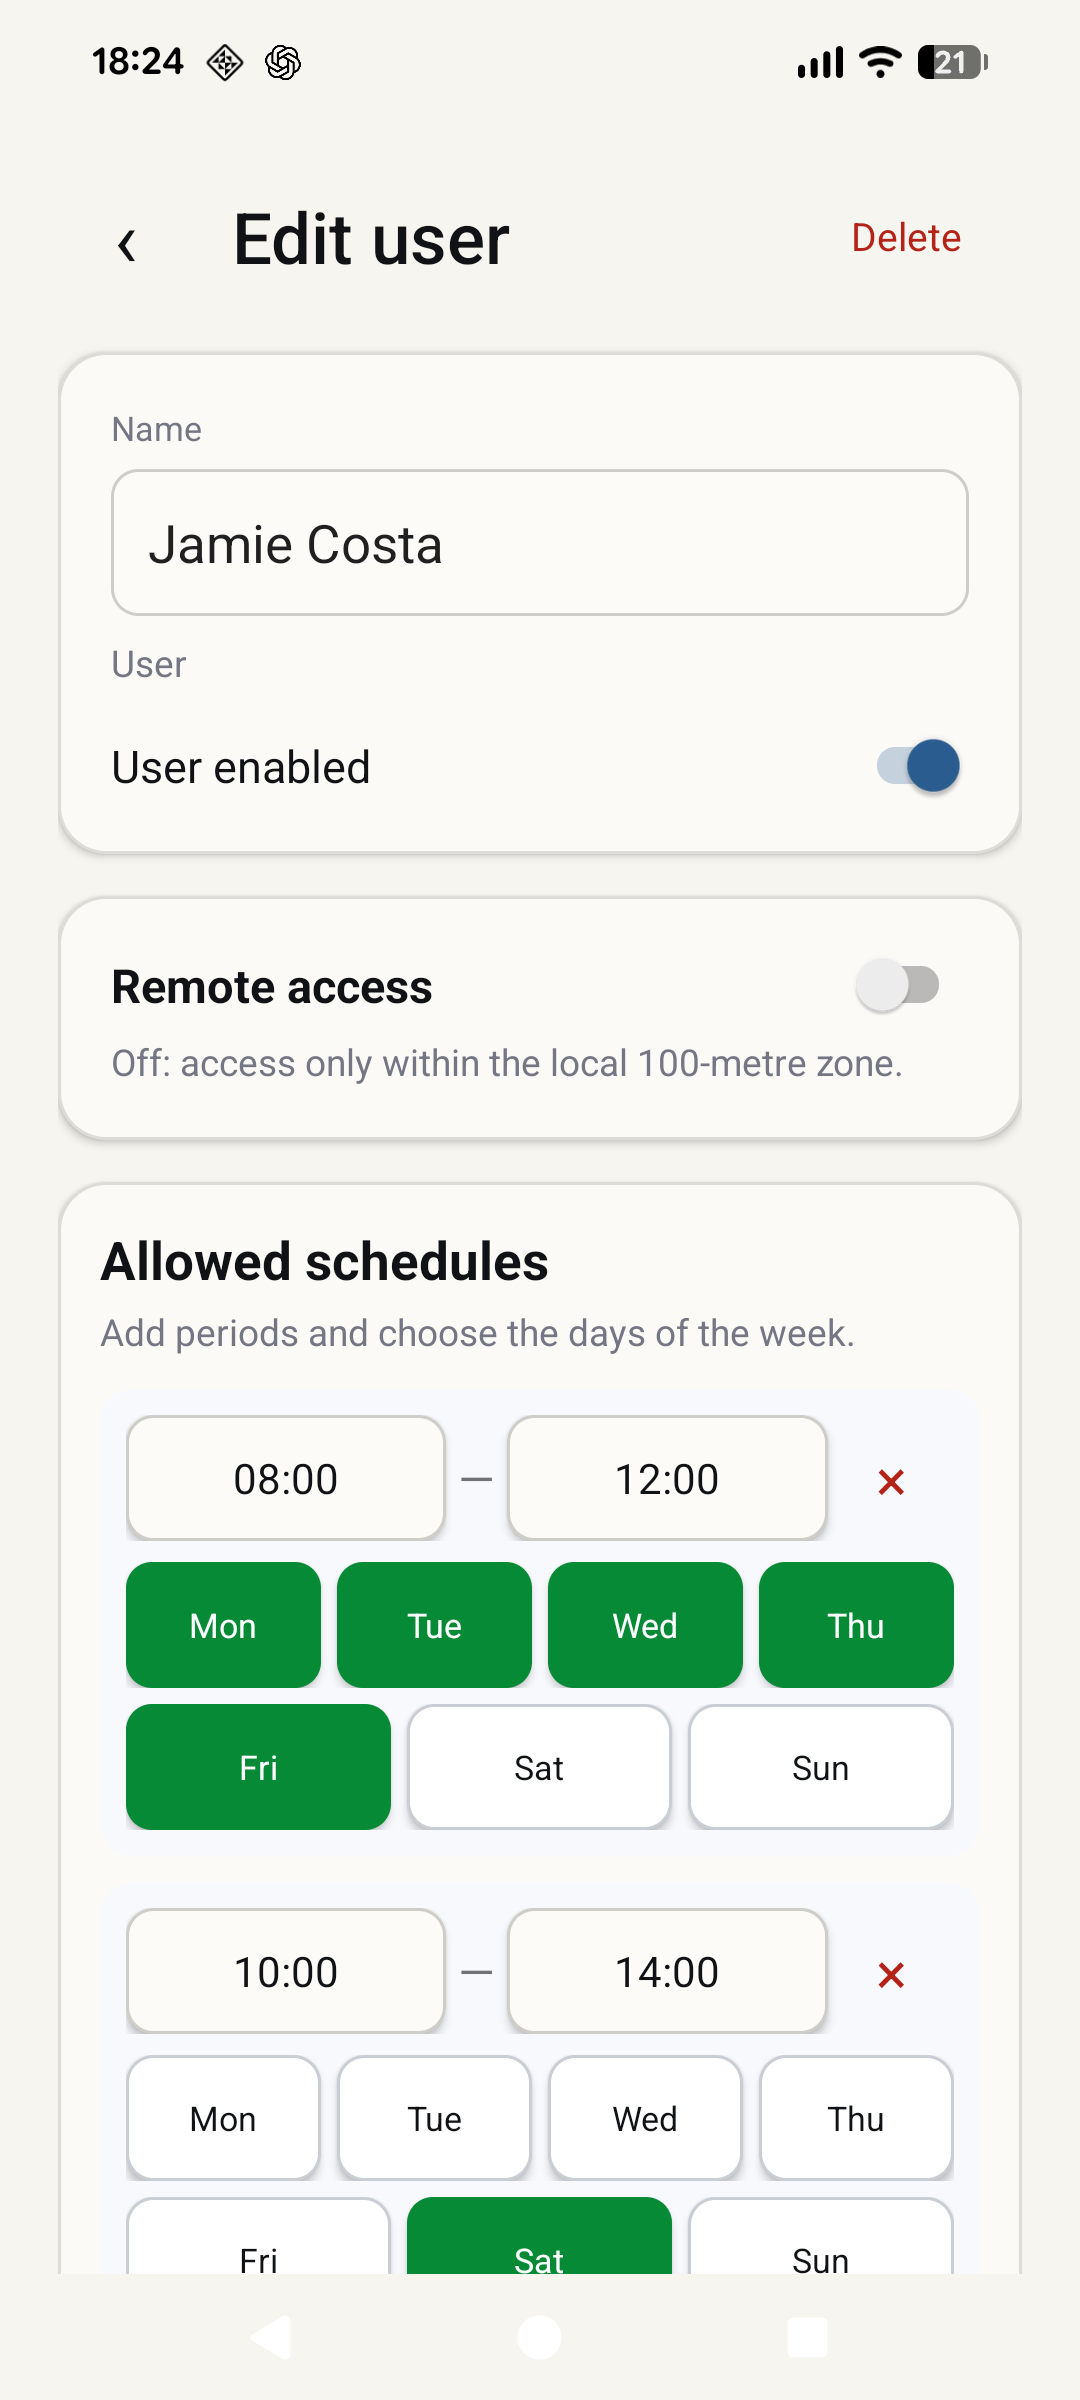
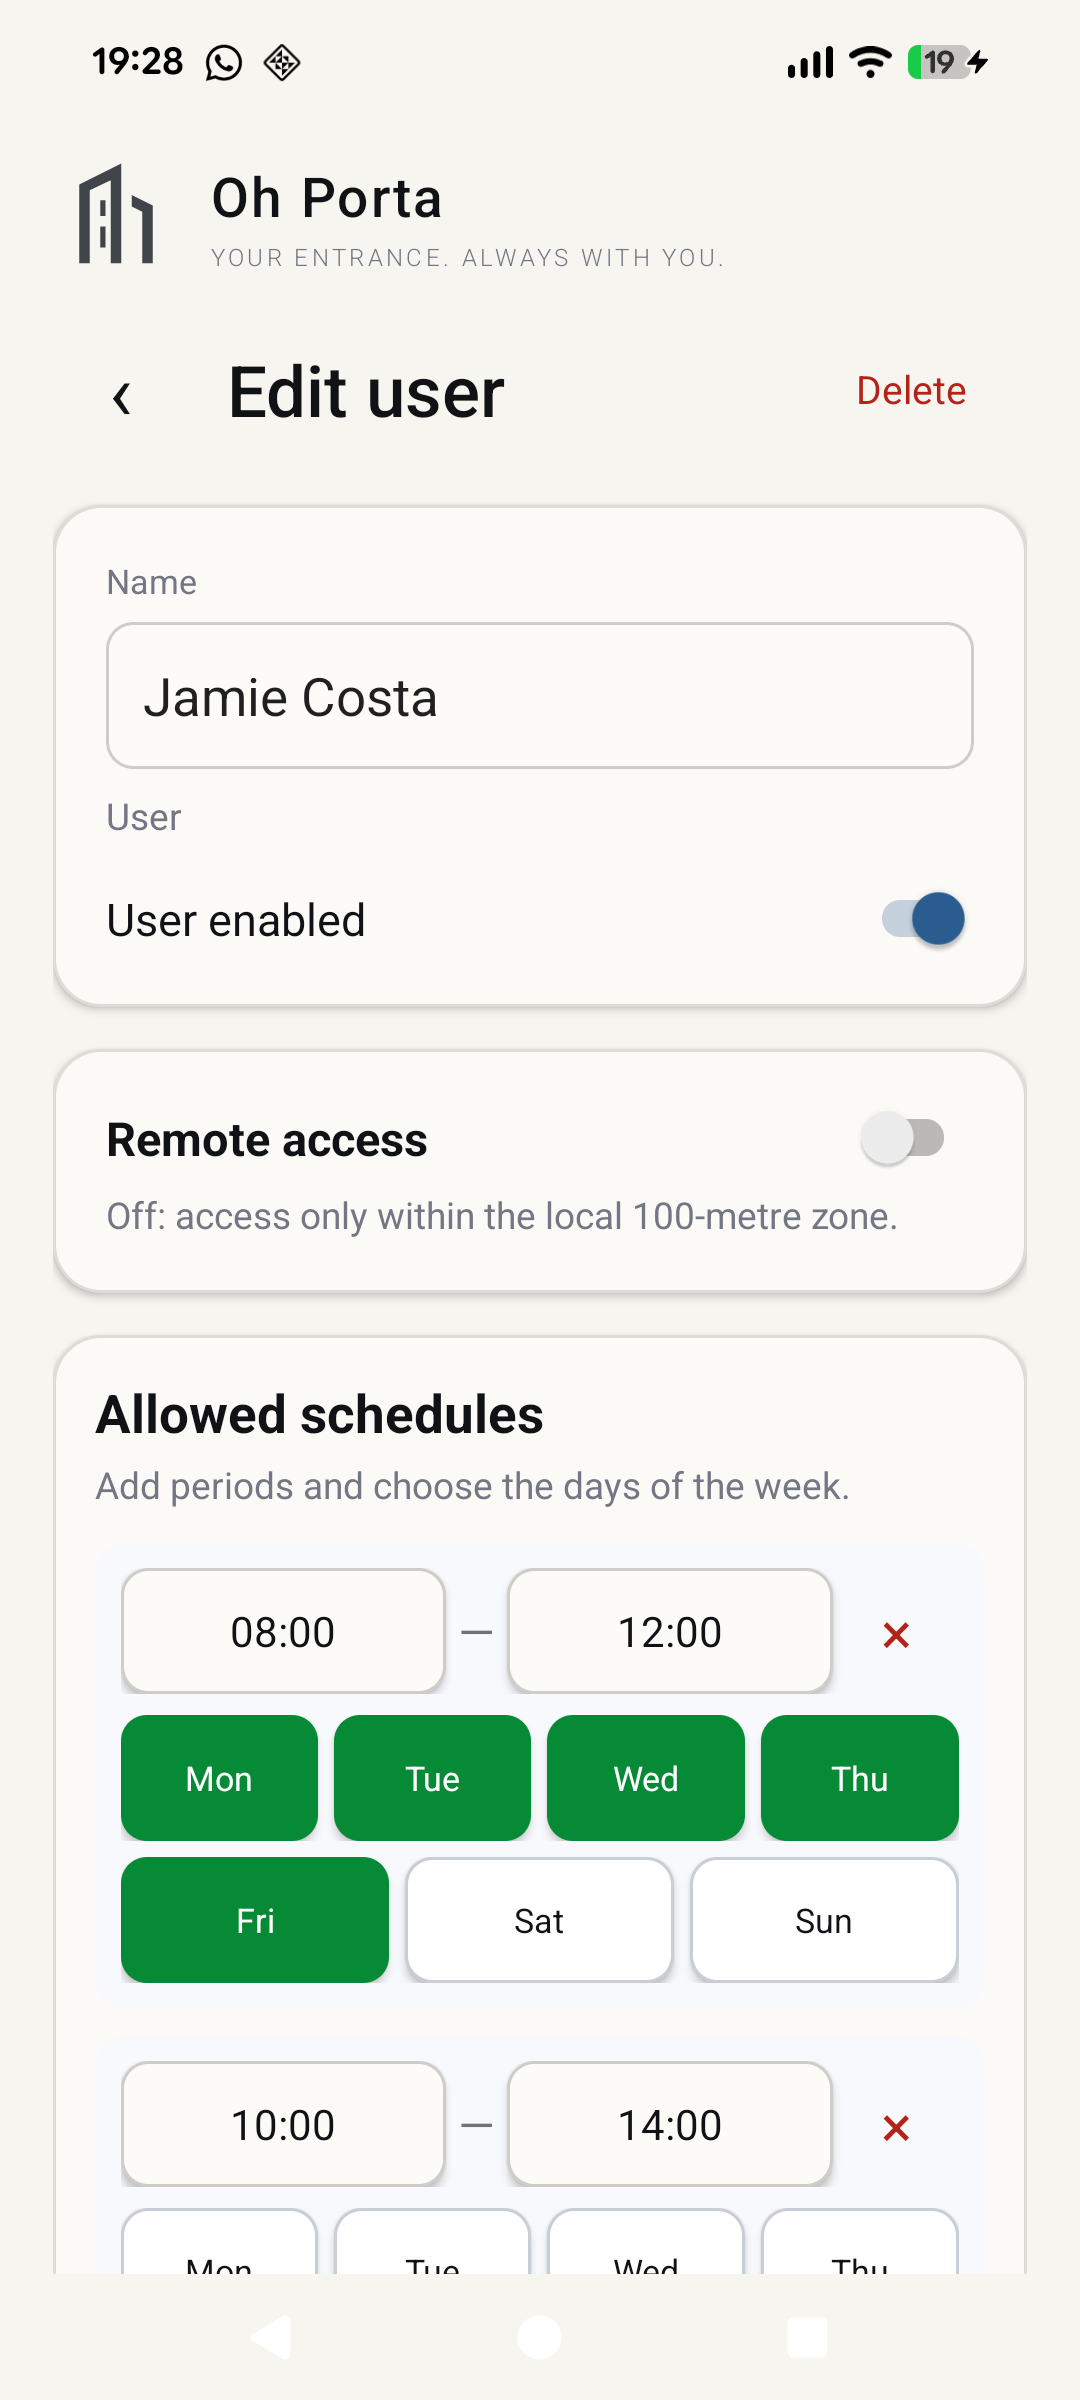
Share Oh Porta branding across home, users and schedules

diff --git a/app/src/main/java/com/xsoulp/ohporta/UserListActivity.java b/app/src/main/java/com/xsoulp/ohporta/UserListActivity.java
@@ -88,9 +88,9 @@ public final class UserListActivity extends Activity {
                     WindowInsets.Type.systemBars() | WindowInsets.Type.displayCutout()
             );
             view.setPadding(
-                    dp(22) + insets.left,
-                    dp(18) + insets.top,
-                    dp(22) + insets.right,
+                    dp(20) + insets.left,
+                    dp(12) + insets.top,
+                    dp(20) + insets.right,
                     dp(18) + insets.bottom
             );
             return windowInsets;
